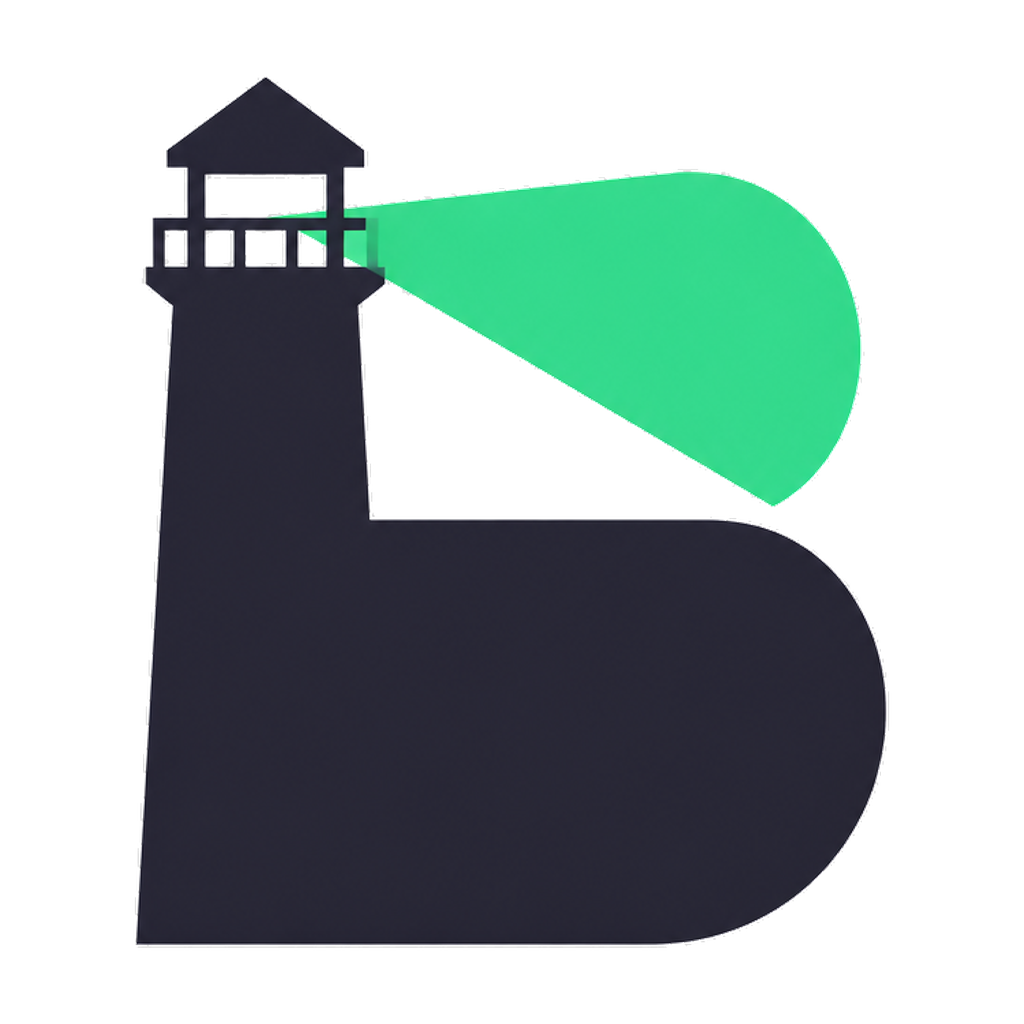
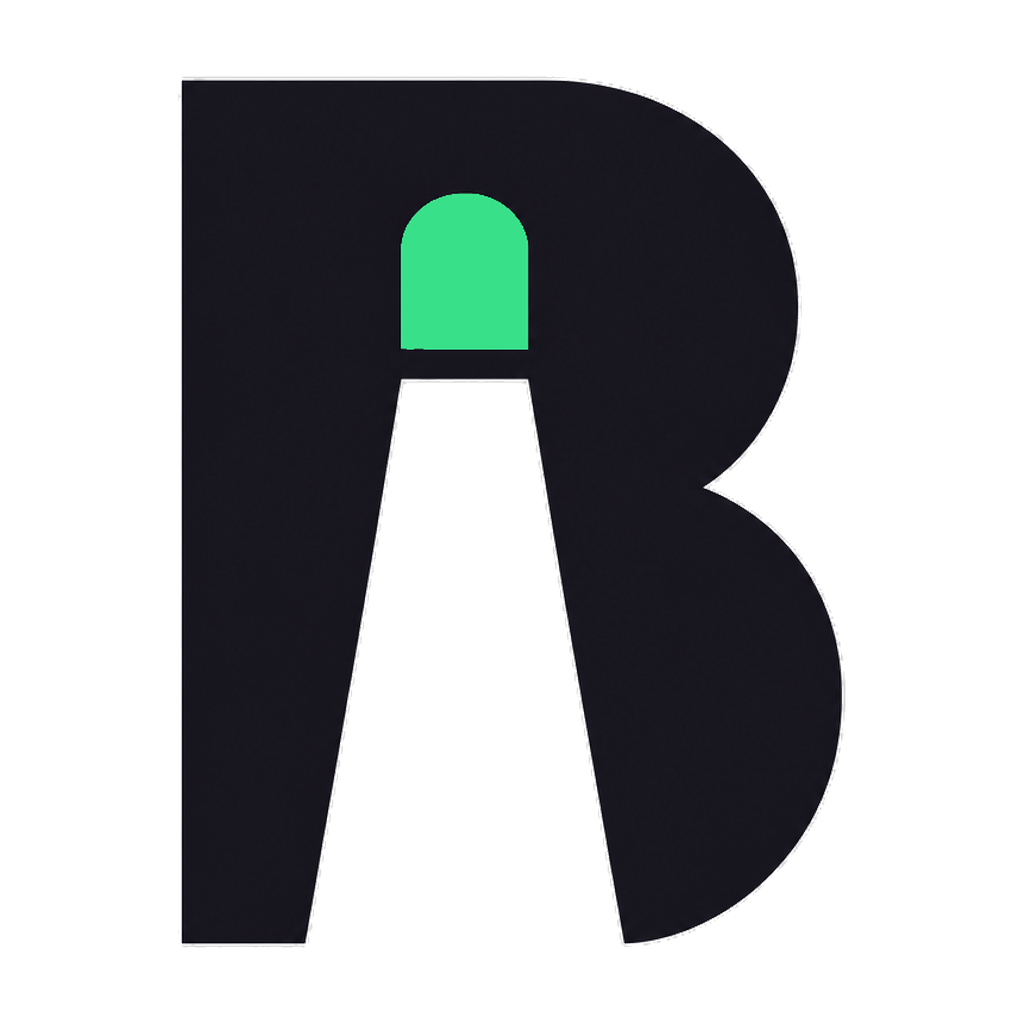
Upgrade Beacon mark to negative-space B with signal lantern.
Same lighthouse-in-B idea, cleaner geometry and PNG favicon set for the Flare AI OS identity.

diff --git a/history.md b/history.md
@@ -4,6 +4,19 @@ Living log of what was done. No secrets in this file.
 
 ---
 
+## 2026-08-08 - NEGATIVE-SPACE B MARK
+
+### Design read
+Same idea as user reference: bold B + lighthouse beam as negative space + mint lantern at the peak. Cleaner geometry, Signal `#39e08a`, PNG only.
+
+### Shipped
+Replaced `beacon-mark.png` / on-dark / favicon PNG set with the elevated negative-space lockup.
+
+### Verify
+Local assets · then push
+
+---
+
 ## 2026-08-08 - BEACON MARK + HERO STORY
 
 ### Design read
